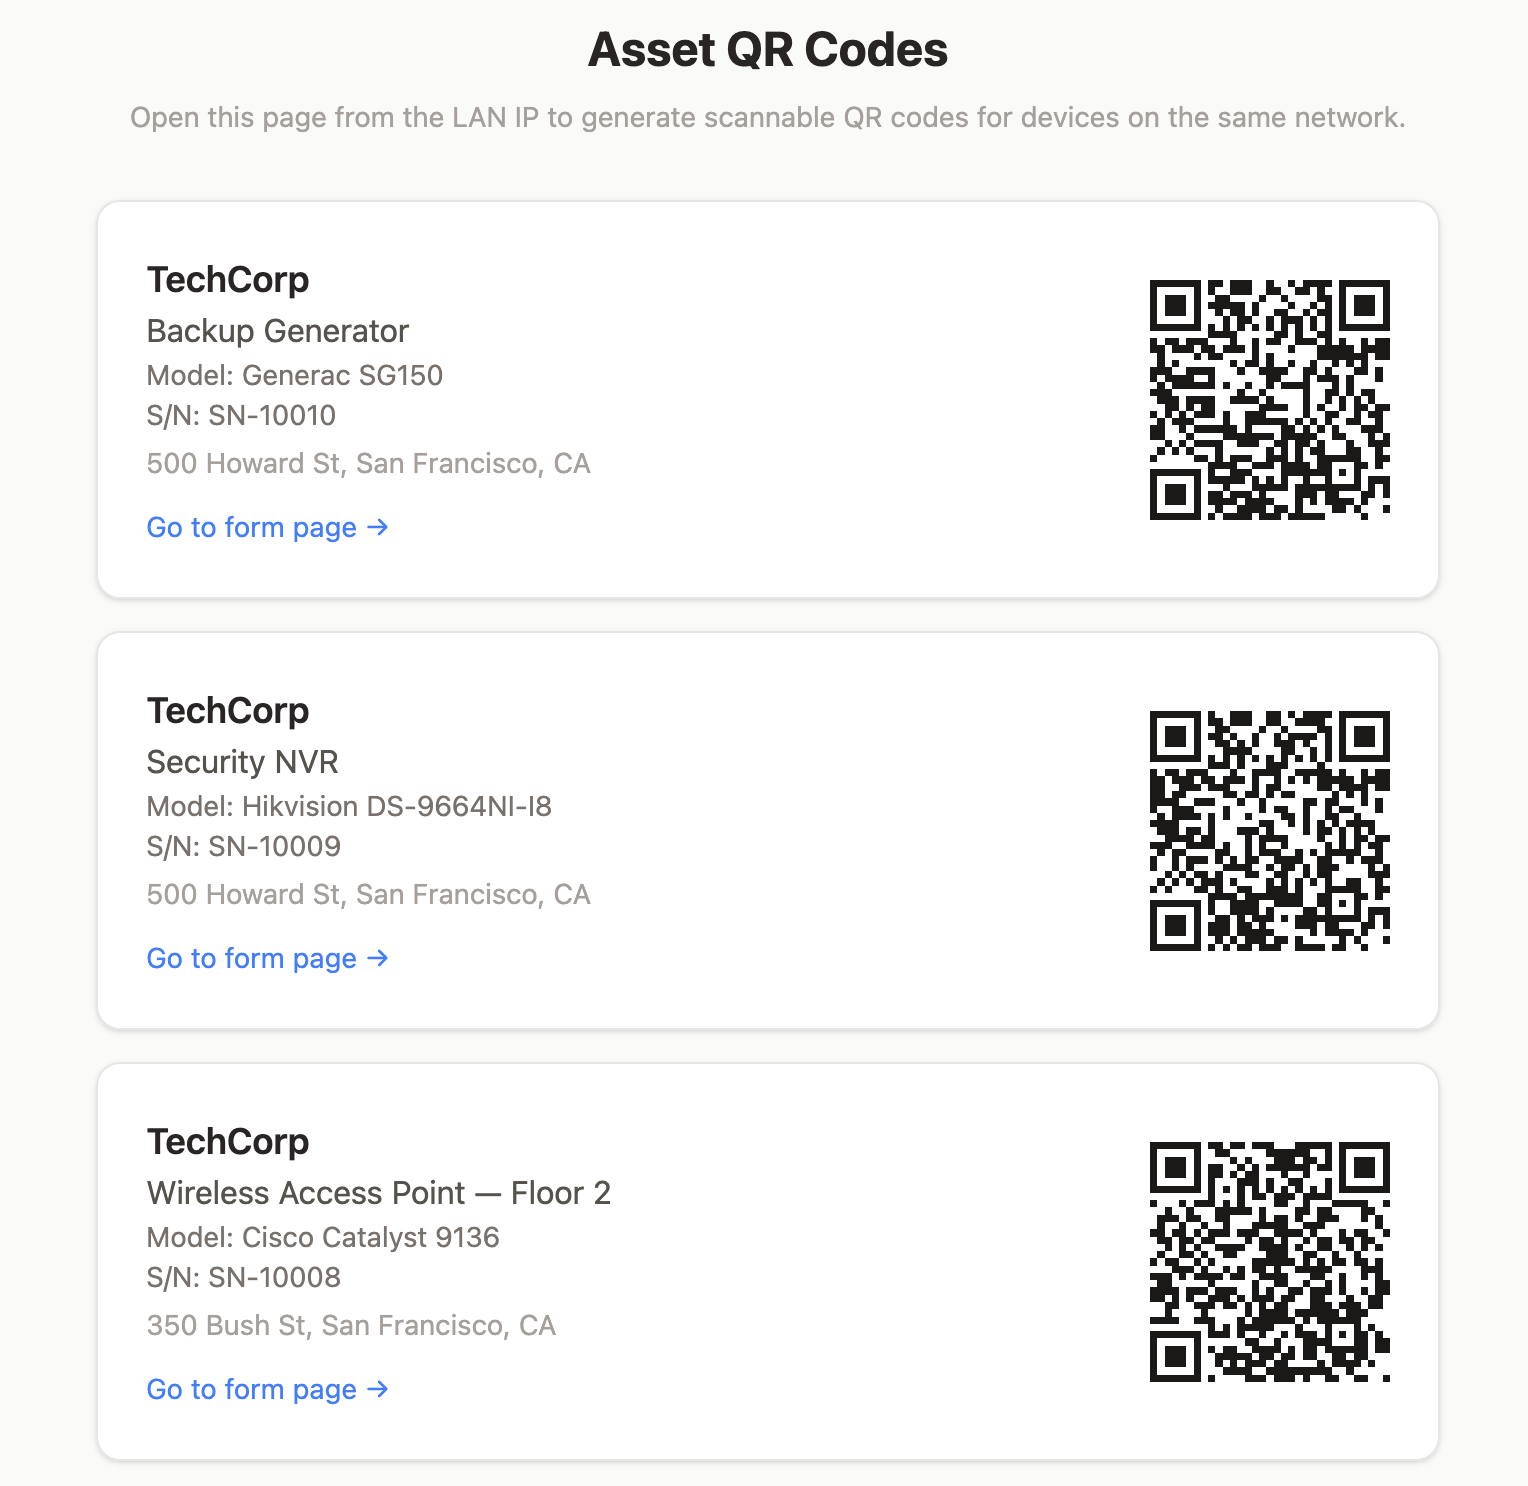
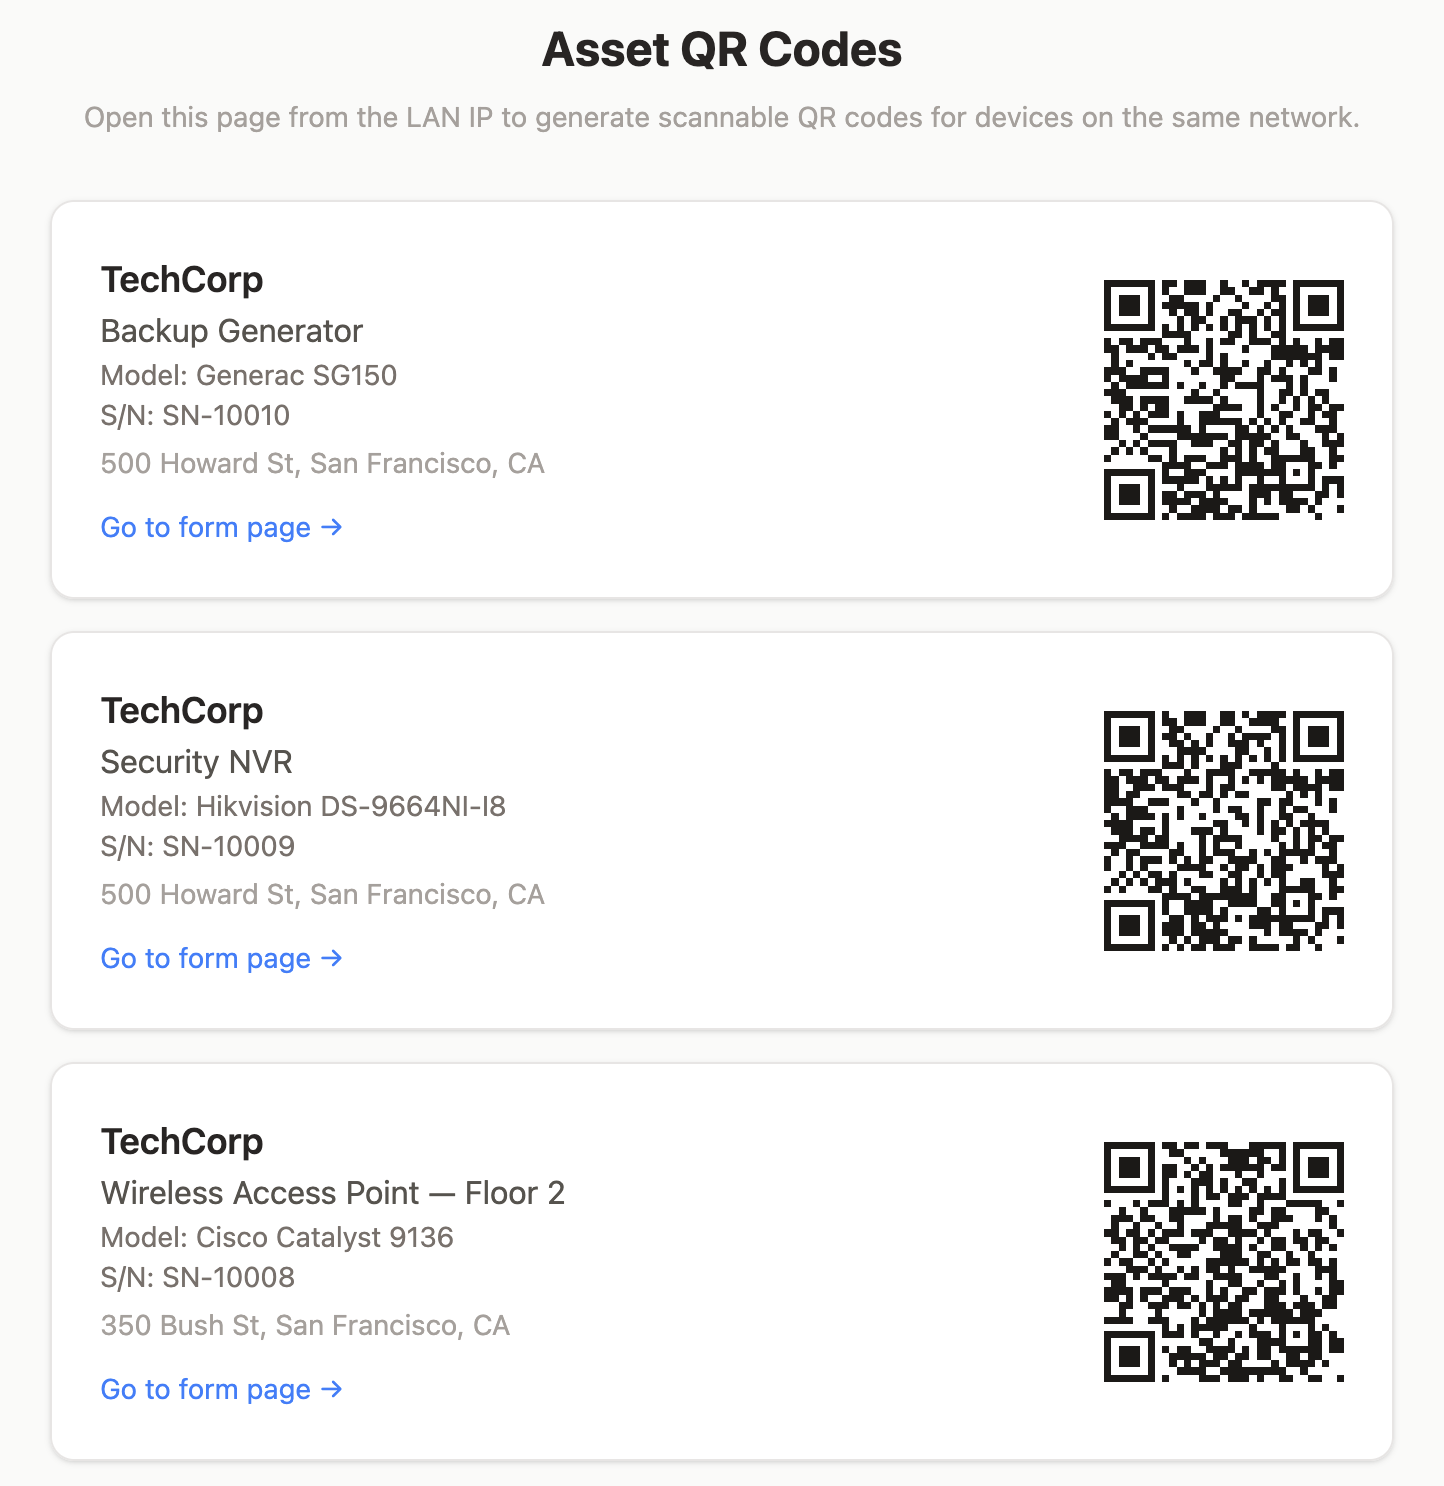
Tidy README images: trim margins and size rows to equal heights
- Trim excess page background around the client form, rating, QR codes,
  operator login, analytics, and request-states images
- Size side-by-side rows so images share a height and fit GitHub's
  README column without wrapping
- Size the poster by width so it keeps its aspect ratio on mobile

diff --git a/README.md b/README.md
@@ -26,7 +26,7 @@ This repository contains the **three frontends**. The NestJS + PostgreSQL backen
 ---
 
 <div align="center">
-  <img height=750 alt="uniflow-poster" src="https://github.com/user-attachments/assets/d718f55e-fb42-4583-88de-4fac661b07f2" />
+  <img width="530" alt="uniflow-poster" src="https://github.com/user-attachments/assets/d718f55e-fb42-4583-88de-4fac661b07f2" />
 </div>
 
 ---
@@ -45,14 +45,14 @@ uniFlow was built by a team of two as a capstone project during an exchange seme
 ## 🔄 How It Works
 
 <div align="center">
-  <img width="760" alt="uniFlow architecture: three frontends on a shared NestJS API" src="docs/images/system-architecture-simplified.png" />
+  <img width="800" alt="uniFlow architecture: three frontends on a shared NestJS API" src="docs/images/system-architecture-simplified.png" />
 </div>
 
 <details>
 <summary><b>Detailed architecture</b> (endpoints, modules, storage)</summary>
 <br>
 <div align="center">
-  <img width="900" alt="Detailed uniFlow system architecture" src="docs/images/system-architecture.png" />
+  <img width="800" alt="Detailed uniFlow system architecture" src="docs/images/system-architecture.png" />
 </div>
 </details>
 
@@ -64,13 +64,13 @@ uniFlow was built by a team of two as a capstone project during an exchange seme
 ### Request lifecycle
 
 <div align="center">
-  <img width="760" alt="Request states: pending, scheduled, in progress, resolved, closed" src="docs/images/request-states.png" />
+  <img width="800" alt="Request states: pending, scheduled, in progress, resolved, closed" src="docs/images/request-states.png" />
 </div>
 
 Each role moves the request forward. The technician's two QR scans (① start, ② finish) gate the `IN_PROGRESS` and `RESOLVED` transitions, and a resolved job can spawn a linked follow-up request that starts the cycle again:
 
 <div align="center">
-  <img width="900" alt="Request lifecycle by role, including QR scans and follow-up requests" src="docs/images/request-lifecycle.png" />
+  <img width="800" alt="Request lifecycle by role, including QR scans and follow-up requests" src="docs/images/request-lifecycle.png" />
 </div>
 
 Every transition is pushed to open dashboards over WebSockets, so there is no polling or page refresh.
@@ -96,14 +96,14 @@ Every transition is pushed to open dashboards over WebSockets, so there is no po
 ### 1. Client Web Form (`uniFlow-client`)
 
 <div align="center">
-  <img width="760" alt="Client service request form" src="uniFlow-client/imgs/uniflow-client-form-page.png" />
+  <img width="353" alt="Client service request form" src="uniFlow-client/imgs/uniflow-client-form-page.png" />
+  <img width="447" alt="Client rating page" src="uniFlow-client/imgs/uniflow-client-rating-page.png" />
 </div>
 
 The public page opened by scanning a device's QR code. It contains the service request form (with photo upload), the rating page, and a printable page of every asset's QR code.
 
 <div align="center">
-  <img width="420" alt="Client rating page" src="uniFlow-client/imgs/uniflow-client-rating-page.png" />
-  <img width="420" alt="Printable asset QR codes page" src="uniFlow-client/imgs/uniflow-client-asset-qr-codes-page.png" />
+  <img width="560" alt="Printable asset QR codes page" src="uniFlow-client/imgs/uniflow-client-asset-qr-codes-page.png" />
 </div>
 
 **Stack:** React 19 · Vite · Tailwind CSS 4 · React Router · Axios · qrcode.react
@@ -113,15 +113,18 @@ The public page opened by scanning a device's QR code. It contains the service r
 ### 2. Operator Dashboard (`uniFlow-operator`)
 
 <div align="center">
-  <img width="900" alt="Operator dashboard home" src="uniFlow-operator/imgs/uniflow-operator-home-page.png" />
+  <img width="800" alt="Operator dashboard home" src="uniFlow-operator/imgs/uniflow-operator-home-page.png" />
 </div>
 
 A login-protected dashboard for managing every request: browse requests by status, schedule and assign technicians, close resolved work, browse assets and technicians, and view analytics. Status changes from technicians appear instantly across all open sessions.
 
 <div align="center">
-  <img width="280" alt="Operator login" src="uniFlow-operator/imgs/uniflow-operator-login-page.png" />
-  <img width="280" alt="Analytics page" src="uniFlow-operator/imgs/uniflow-operator-analytics-page.png" />
-  <img width="280" alt="Schedule request form" src="uniFlow-operator/imgs/uniflow-operator-schedule-request-form-page.png" />
+  <img width="277" alt="Operator login" src="uniFlow-operator/imgs/uniflow-operator-login-page.png" />
+  <img width="523" alt="Schedule request form" src="uniFlow-operator/imgs/uniflow-operator-schedule-request-form-page.png" />
+</div>
+<br>
+<div align="center">
+  <img width="700" alt="Analytics page" src="uniFlow-operator/imgs/uniflow-operator-analytics-page.png" />
 </div>
 
 **Stack:** React 19 · Vite · Tailwind CSS 4 · shadcn/ui (Radix) · TanStack Table · TanStack Query · React Hook Form + Zod · Recharts · Socket.io client
@@ -133,8 +136,8 @@ A login-protected dashboard for managing every request: browse requests by statu
 A React Native app for field technicians. It lists scheduled and finished jobs, shows each job's location, device, and the client's report, and uses the camera to scan the device's QR code at the start and end of each job. Technicians resolve jobs with notes and photos, or create a follow-up request.
 
 <div align="center">
-  <img width="420" alt="Login and scheduled jobs" src="uniFlow-technician/imgs/uniflow-technician-screens-login-scheduled.png" />
-  <img width="420" alt="Job in progress and finished jobs" src="uniFlow-technician/imgs/uniflow-technician-screens-inprogress-finished.png" />
+  <img width="400" alt="Login and scheduled jobs" src="uniFlow-technician/imgs/uniflow-technician-screens-login-scheduled.png" />
+  <img width="400" alt="Job in progress and finished jobs" src="uniFlow-technician/imgs/uniflow-technician-screens-inprogress-finished.png" />
 </div>
 
 **Stack:** React Native · Expo SDK 54 · Expo Router · NativeWind · expo-camera · expo-image-picker
